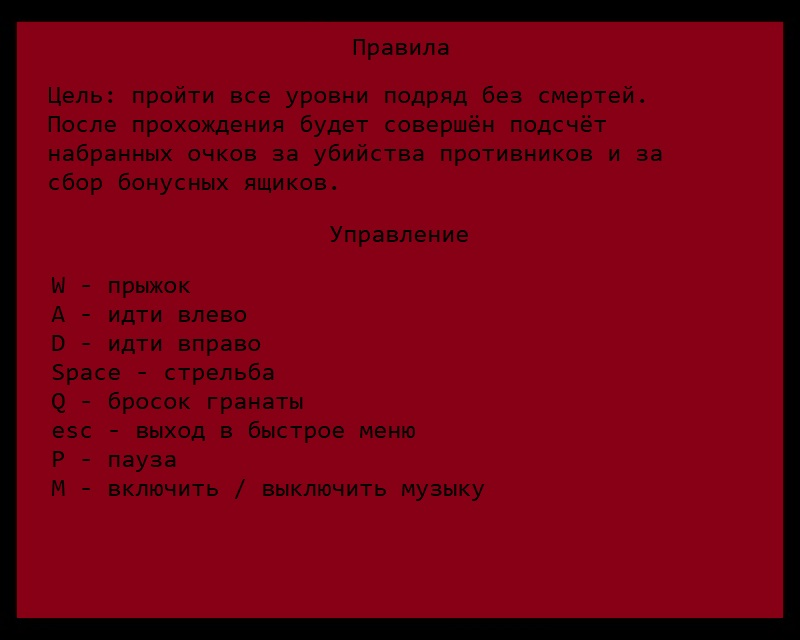
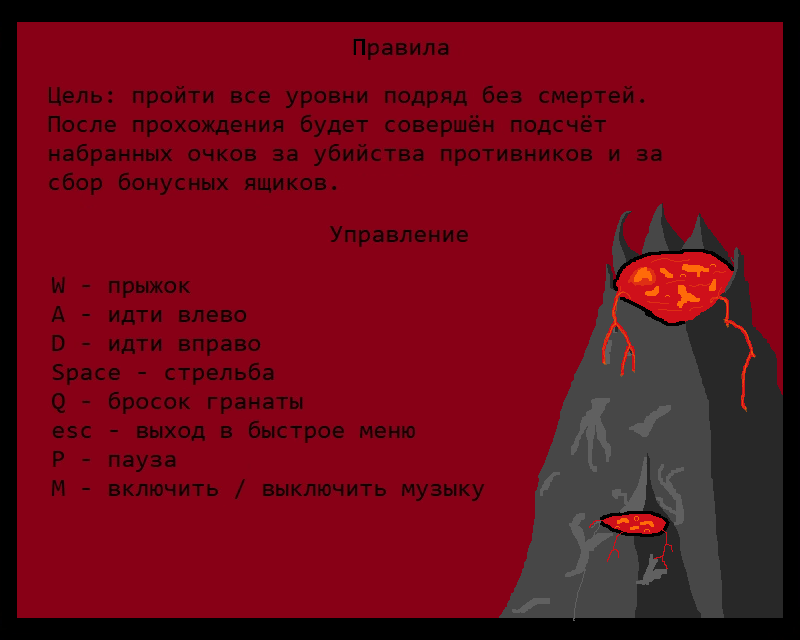
Было изменено качество спрайтов кнопок и добавлен фон в меню.

Changed region(s): [[0.625, 0.3125, 1.0, 0.9688], [0.4375, 0.0625, 0.4688, 0.0938]]

diff --git a/main.py b/main.py
@@ -1,14 +1,15 @@
+import csv
+import random
+import sqlite3
 import time
 import button
-import csv
-import sqlite3
-import random
-from image import *
+
 from create_pers import *
-from granade import Grenade
 from fade import ScreenFade
-from world import World
+from granade import Grenade
+from image import *
 from splashes import Particle
+from world import World
 
 font = pygame.font.SysFont('consolas', 20)
 font1 = pygame.font.SysFont('consolas', 65)
@@ -133,7 +134,7 @@ while PLAY:
         if back_button.draw(screen):
             info = False
     elif final_menu:
-        screen.fill('darkred')
+        screen.fill('')
         h = str(SUM_TIMER + TIMER // 360).zfill(2)
         m = str((SUM_TIMER + TIMER // 60) % 60).zfill(2)
         s = str(SUM_TIMER + TIMER % 60).zfill(2)
@@ -201,7 +202,8 @@ while PLAY:
             PLAY = False
 
     elif not start_game:
-        screen.fill('darkred')
+        screen.fill('black')
+        screen.blit(main_img, (0, 0))
         draw_text('JumpShoot', font1, 'black', SCREEN_WIDTH * 0.34, 50)
         if start_button.draw(screen):
             time1 = time.strftime("%H:%M:%S").split(':')
@@ -217,7 +219,8 @@ while PLAY:
 
     elif pause:
         if menu:
-            screen.fill('darkred')
+            screen.fill('black')
+            screen.blit(main_img, (0, 0))
             draw_text('Меню', font1, 'black', SCREEN_WIDTH * 0.427, 50)
             if restart_button.draw(screen):
                 time1 = time.strftime("%H:%M:%S").split(':')
